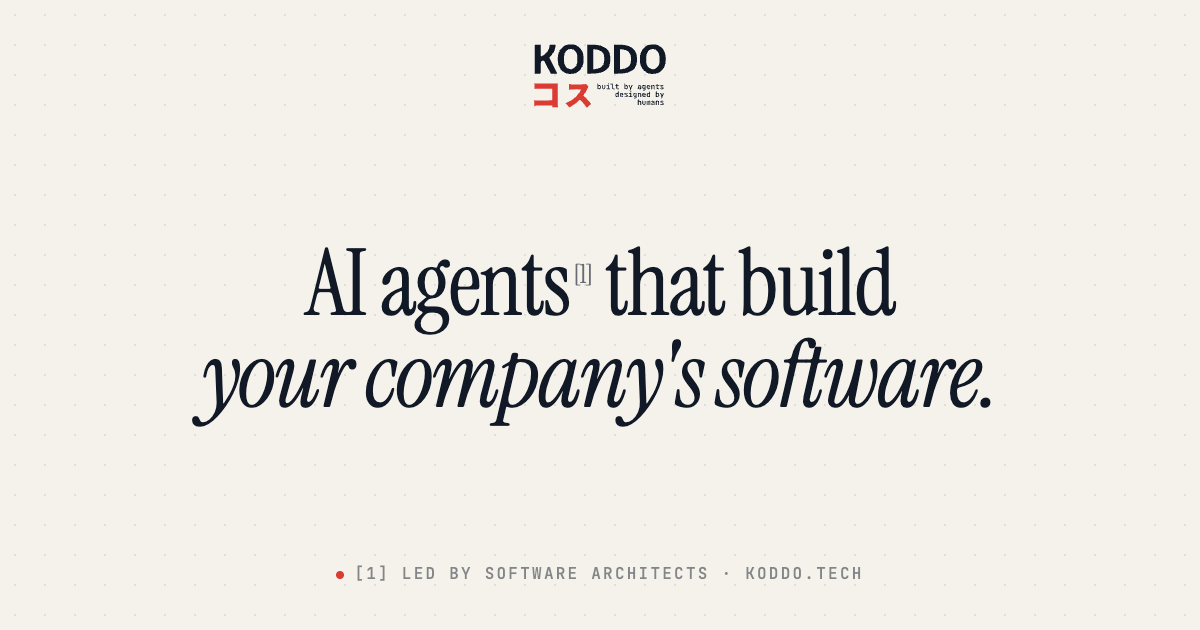
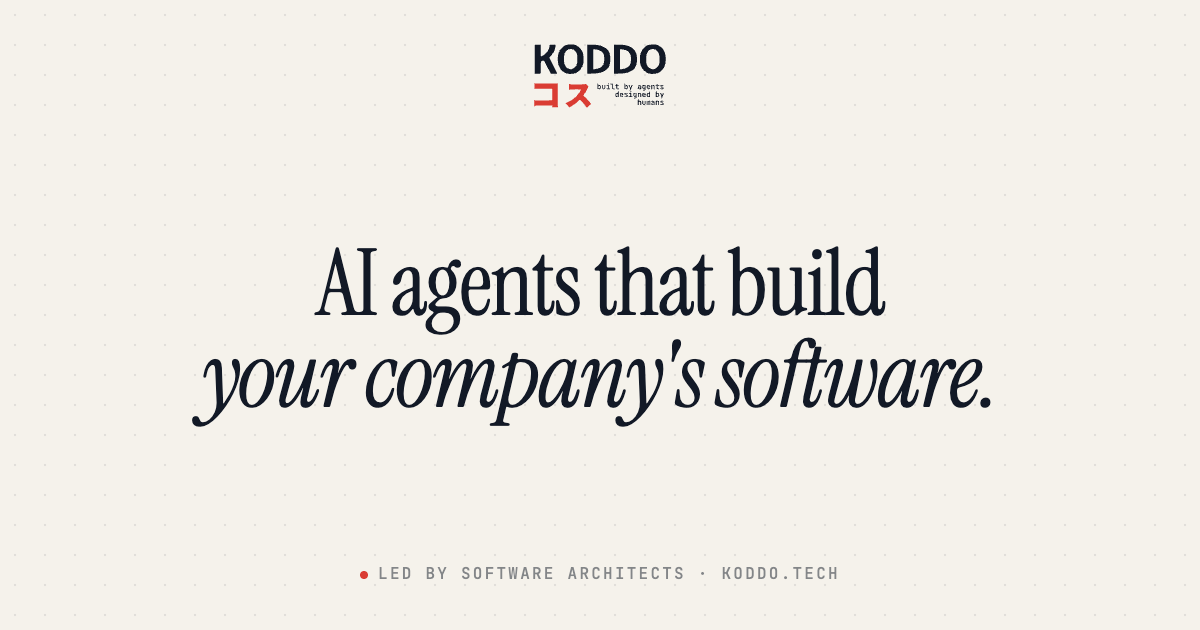
Portada sin la marca [1] (ES y EN) e imágenes para compartir actualizadas

Changed region(s): [[0.2467, 0.3921, 0.74, 0.5429], [0.2775, 0.9048, 0.6167, 0.9349], [0.6475, 0.9048, 0.7092, 0.9349]]

diff --git a/index.html b/index.html
@@ -13,7 +13,7 @@
   <meta property="og:description" content="Agentes de inteligencia artificial dirigidos por arquitectos de software. Por suscripción, desde 199 créditos al mes.">
   <meta property="og:type" content="website">
   <meta property="og:url" content="https://www.koddo.tech/">
-  <meta property="og:image" content="https://www.koddo.tech/images/og-hero.png?v=2">
+  <meta property="og:image" content="https://www.koddo.tech/images/og-hero.png?v=3">
   <meta property="og:image:type" content="image/png">
   <meta property="og:image:width" content="1200">
   <meta property="og:image:height" content="630">
@@ -22,7 +22,7 @@
   <meta property="og:locale" content="es_ES">
   <meta property="og:locale:alternate" content="en_US">
   <meta name="twitter:card" content="summary_large_image">
-  <meta name="twitter:image" content="https://www.koddo.tech/images/og-hero.png?v=2">
+  <meta name="twitter:image" content="https://www.koddo.tech/images/og-hero.png?v=3">
   <link rel="alternate" type="text/markdown" href="/about-koddo.md">
   <meta name="llm-context" content="/about-koddo.md">
   <script type="application/ld+json">
@@ -35,7 +35,7 @@
       "name": "Koddo",
       "url": "https://www.koddo.tech",
       "logo": "https://www.koddo.tech/images/logo-koddo-ink.png",
-      "image": "https://www.koddo.tech/images/og-hero.png?v=2",
+      "image": "https://www.koddo.tech/images/og-hero.png?v=3",
       "slogan": "Built by agents, designed by humans",
       "description": "Empresa de agentes de inteligencia artificial que construyen el software de otras empresas, dirigidos por arquitectos de software.",
       "address": {
@@ -237,9 +237,7 @@
     .hero { min-height: min(100vh, 900px); display: grid; place-items: center; text-align: center; padding: 140px 0 70px; position: relative; }
     .hero h1 { font-size: clamp(46px, 6.6vw, 96px); line-height: 1; letter-spacing: -.02em; max-width: 1040px; margin: 0 auto; }
     .hero h1 em { color: var(--ink); }
-    .hero sup { font: 400 .28em/1 var(--serif); vertical-align: super; margin-left: 4px; color: var(--ink-2); }
-    .note { max-width: 440px; margin: 34px auto 0; text-align: left; font: italic 400 19px/1.4 var(--serif); color: var(--ink-2); display: grid; grid-template-columns: auto 1fr; gap: 10px; }
-    .note span:first-child { font-style: normal; }
+    .note { max-width: 440px; margin: 34px auto 0; font: italic 400 19px/1.4 var(--serif); color: var(--ink-2); }
     .hero .actions { display: flex; gap: 22px; justify-content: center; align-items: center; margin-top: 40px; flex-wrap: wrap; }
     .how-sec { padding: clamp(100px, 12vw, 160px) 0; text-align: center; }
     .how-sec h2 { margin: 20px auto 0; max-width: 820px; }
@@ -397,8 +395,8 @@
   <!-- Héroe -->
   <header class="hero dots-c">
     <div class="wrap">
-      <h1 class="reveal">Agentes de IA<sup>[1]</sup> que construyen<br><em>el software de tu empresa.</em></h1>
-      <p class="note reveal"><span>[1]</span><span>Dirigidos por arquitectos de software, que definen el plan y revisan cada entrega.</span></p>
+      <h1 class="reveal">Agentes de IA que construyen<br><em>el software de tu empresa.</em></h1>
+      <p class="note reveal"><span>Dirigidos por arquitectos de software, que definen el plan y revisan cada entrega.</span></p>
       <div class="actions reveal">
         <a class="btn btn-ink" href="#planes">Ver planes</a>
         <a class="link" href="#casos">Ver casos</a>

diff --git a/en/index.html b/en/index.html
@@ -13,7 +13,7 @@
   <meta property="og:description" content="Artificial intelligence agents led by software architects. By subscription, from 199 credits a month.">
   <meta property="og:type" content="website">
   <meta property="og:url" content="https://www.koddo.tech/en">
-  <meta property="og:image" content="https://www.koddo.tech/images/og-hero-en.png">
+  <meta property="og:image" content="https://www.koddo.tech/images/og-hero-en.png?v=2">
   <meta property="og:image:type" content="image/png">
   <meta property="og:image:width" content="1200">
   <meta property="og:image:height" content="630">
@@ -22,7 +22,7 @@
   <meta property="og:locale" content="en_US">
   <meta property="og:locale:alternate" content="es_ES">
   <meta name="twitter:card" content="summary_large_image">
-  <meta name="twitter:image" content="https://www.koddo.tech/images/og-hero-en.png">
+  <meta name="twitter:image" content="https://www.koddo.tech/images/og-hero-en.png?v=2">
   <link rel="alternate" type="text/markdown" href="/about-koddo.md">
   <meta name="llm-context" content="/about-koddo.md">
   <script type="application/ld+json">
@@ -35,7 +35,7 @@
       "name": "Koddo",
       "url": "https://www.koddo.tech",
       "logo": "https://www.koddo.tech/images/logo-koddo-ink.png",
-      "image": "https://www.koddo.tech/images/og-hero.png?v=2",
+      "image": "https://www.koddo.tech/images/og-hero.png?v=3",
       "slogan": "Built by agents, designed by humans",
       "description": "A company of artificial intelligence agents that build software for businesses, led by software architects.",
       "address": {
@@ -237,9 +237,7 @@
     .hero { min-height: min(100vh, 900px); display: grid; place-items: center; text-align: center; padding: 140px 0 70px; position: relative; }
     .hero h1 { font-size: clamp(46px, 6.6vw, 96px); line-height: 1; letter-spacing: -.02em; max-width: 1040px; margin: 0 auto; }
     .hero h1 em { color: var(--ink); }
-    .hero sup { font: 400 .28em/1 var(--serif); vertical-align: super; margin-left: 4px; color: var(--ink-2); }
-    .note { max-width: 440px; margin: 34px auto 0; text-align: left; font: italic 400 19px/1.4 var(--serif); color: var(--ink-2); display: grid; grid-template-columns: auto 1fr; gap: 10px; }
-    .note span:first-child { font-style: normal; }
+    .note { max-width: 440px; margin: 34px auto 0; font: italic 400 19px/1.4 var(--serif); color: var(--ink-2); }
     .hero .actions { display: flex; gap: 22px; justify-content: center; align-items: center; margin-top: 40px; flex-wrap: wrap; }
     .how-sec { padding: clamp(100px, 12vw, 160px) 0; text-align: center; }
     .how-sec h2 { margin: 20px auto 0; max-width: 820px; }
@@ -397,8 +395,8 @@
   <!-- Hero -->
   <header class="hero dots-c">
     <div class="wrap">
-      <h1 class="reveal">AI agents<sup>[1]</sup> that build<br><em>your company's software.</em></h1>
-      <p class="note reveal"><span>[1]</span><span>Led by software architects, who set the plan and review every delivery.</span></p>
+      <h1 class="reveal">AI agents that build<br><em>your company's software.</em></h1>
+      <p class="note reveal"><span>Led by software architects, who set the plan and review every delivery.</span></p>
       <div class="actions reveal">
         <a class="btn btn-ink" href="#plans">See plans</a>
         <a class="link" href="#cases">See cases</a>

diff --git a/blog/como-mejorar-procesos-empresa-sin-cambiar-sistema/index.html b/blog/como-mejorar-procesos-empresa-sin-cambiar-sistema/index.html
@@ -8,7 +8,7 @@
     <link rel="canonical" href="https://www.koddo.tech/blog/como-mejorar-procesos-empresa-sin-cambiar-sistema">
     <meta property="og:title" content="Cómo mejorar los procesos de tu empresa sin cambiar de sistema">
     <meta property="og:description" content="Guía práctica para empresas medianas: identificar el proceso que más cuesta, decidir qué automatizar primero y lograr mejoras en semanas.">
-    <meta property="og:image" content="https://www.koddo.tech/images/og-hero.png?v=2">
+    <meta property="og:image" content="https://www.koddo.tech/images/og-hero.png?v=3">
     <meta property="og:type" content="article">
     <meta property="og:url" content="https://www.koddo.tech/blog/como-mejorar-procesos-empresa-sin-cambiar-sistema">
     <!-- LLM -->
@@ -24,7 +24,7 @@
       "@type": "BlogPosting",
       "headline": "Cómo mejorar los procesos de tu empresa sin cambiar de sistema",
       "description": "Guía práctica para empresas medianas: identificar el proceso que más cuesta, decidir qué automatizar primero y lograr mejoras medibles en semanas, sin cambiar el ERP.",
-      "image": "https://www.koddo.tech/images/og-hero.png?v=2",
+      "image": "https://www.koddo.tech/images/og-hero.png?v=3",
       "datePublished": "2026-06-11",
       "author": { "@type": "Person", "name": "Germán Charls", "worksFor": { "@type": "Organization", "name": "Koddo", "url": "https://www.koddo.tech" } },
       "publisher": { "@type": "Organization", "name": "Koddo", "url": "https://www.koddo.tech" },

diff --git a/blog/por-que-tu-erp-se-usa-a-la-mitad/index.html b/blog/por-que-tu-erp-se-usa-a-la-mitad/index.html
@@ -8,7 +8,7 @@
     <link rel="canonical" href="https://www.koddo.tech/blog/por-que-tu-erp-se-usa-a-la-mitad">
     <meta property="og:title" content="Por qué tu ERP se usa a la mitad (y cómo completar la última milla)">
     <meta property="og:description" content="La distancia entre lo que tu ERP hace y lo que tu empresa necesita es la última milla. Nadie la construyó. Así se resuelve.">
-    <meta property="og:image" content="https://www.koddo.tech/images/og-hero.png?v=2">
+    <meta property="og:image" content="https://www.koddo.tech/images/og-hero.png?v=3">
     <meta property="og:type" content="article">
     <meta property="og:url" content="https://www.koddo.tech/blog/por-que-tu-erp-se-usa-a-la-mitad">
     <!-- LLM -->
@@ -24,7 +24,7 @@
       "@type": "BlogPosting",
       "headline": "Por qué tu ERP se usa a la mitad (y cómo completar la última milla)",
       "description": "Pagaste por un sistema que iba a integrar toda tu empresa. Hoy media operación sigue en planillas. Qué es la última milla del ERP, por qué nadie la construyó y cómo resolverla.",
-      "image": "https://www.koddo.tech/images/og-hero.png?v=2",
+      "image": "https://www.koddo.tech/images/og-hero.png?v=3",
       "datePublished": "2026-06-11",
       "author": { "@type": "Person", "name": "Germán Charls", "worksFor": { "@type": "Organization", "name": "Koddo", "url": "https://www.koddo.tech" } },
       "publisher": { "@type": "Organization", "name": "Koddo", "url": "https://www.koddo.tech" },

diff --git a/blog/ti-interno-o-partner-tecnologico/index.html b/blog/ti-interno-o-partner-tecnologico/index.html
@@ -8,7 +8,7 @@
     <link rel="canonical" href="https://www.koddo.tech/blog/ti-interno-o-partner-tecnologico">
     <meta property="og:title" content="¿Contratar TI interno o trabajar con un partner tecnológico?">
     <meta property="og:description" content="Los números reales de cada opción para una empresa mediana en Bolivia — y cuándo conviene cada camino.">
-    <meta property="og:image" content="https://www.koddo.tech/images/og-hero.png?v=2">
+    <meta property="og:image" content="https://www.koddo.tech/images/og-hero.png?v=3">
     <meta property="og:type" content="article">
     <meta property="og:url" content="https://www.koddo.tech/blog/ti-interno-o-partner-tecnologico">
     <!-- LLM -->
@@ -24,7 +24,7 @@
       "@type": "BlogPosting",
       "headline": "¿Contratar TI interno o trabajar con un partner tecnológico?",
       "description": "Comparación con números reales para empresas medianas en Bolivia: costo anual de un empleado TI vs proyectos con un partner tecnológico, riesgos de cada opción y cuándo conviene cada camino.",
-      "image": "https://www.koddo.tech/images/og-hero.png?v=2",
+      "image": "https://www.koddo.tech/images/og-hero.png?v=3",
       "datePublished": "2026-06-11",
       "author": { "@type": "Person", "name": "Germán Charls", "worksFor": { "@type": "Organization", "name": "Koddo", "url": "https://www.koddo.tech" } },
       "publisher": { "@type": "Organization", "name": "Koddo", "url": "https://www.koddo.tech" },

diff --git a/blog/como-construir-empresa-estos-dias/index.html b/blog/como-construir-empresa-estos-dias/index.html
@@ -8,7 +8,7 @@
     <link rel="canonical" href="https://www.koddo.tech/blog/como-construir-empresa-estos-dias">
     <meta property="og:title" content="Cómo construir una empresa en estos días">
     <meta property="og:description" content="La transformación real no es usar IA, sino rediseñar la arquitectura de la organización desde una lógica nueva.">
-    <meta property="og:image" content="https://www.koddo.tech/images/og-hero.png?v=2">
+    <meta property="og:image" content="https://www.koddo.tech/images/og-hero.png?v=3">
     <meta property="og:type" content="article">
     <meta property="og:url" content="https://www.koddo.tech/blog/como-construir-empresa-estos-dias">
     <!-- LLM -->
@@ -24,7 +24,7 @@
       "@type": "BlogPosting",
       "headline": "Cómo construir una empresa en estos días",
       "description": "La transformación real no es usar IA, sino rediseñar la arquitectura de la organización desde una lógica nueva.",
-      "image": "https://www.koddo.tech/images/og-hero.png?v=2",
+      "image": "https://www.koddo.tech/images/og-hero.png?v=3",
       "datePublished": "2026-04-09",
       "author": { "@type": "Organization", "name": "KODDO", "url": "https://www.koddo.tech" },
       "publisher": { "@type": "Organization", "name": "Koddo", "url": "https://www.koddo.tech" },
